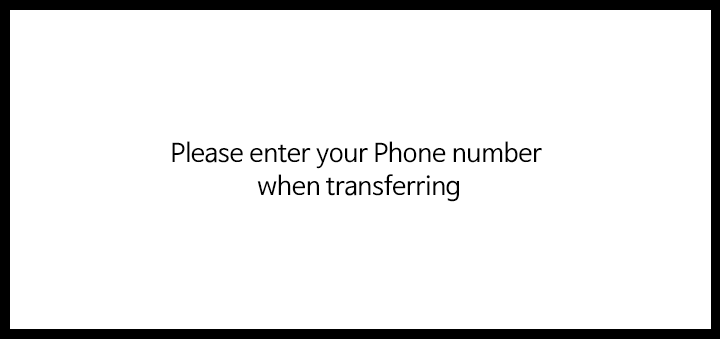
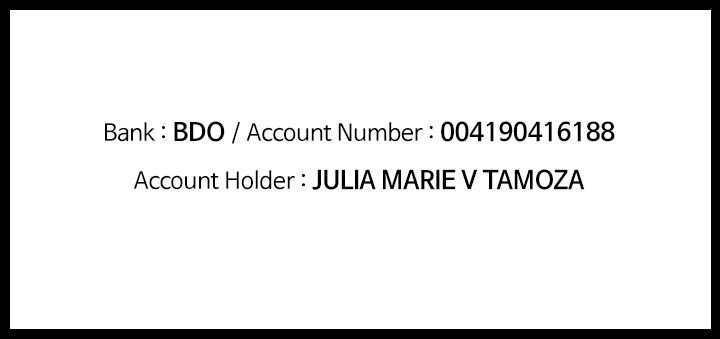
a

Changed region(s): [[0.1222, 0.354, 0.8556, 0.59]]

diff --git a/views/cmall/mobile/order.php b/views/cmall/mobile/order.php
@@ -152,8 +152,8 @@
                         </tr>
                         <tr>
                             <td>
-                            <h3 class="control-label">Account information</h3>
-                            <strong><?php echo nl2br($this->cbconfig->item('payment_bank_info')); ?> </strong>
+                            <!-- <h3 class="control-label">Account information</h3>
+                            <strong><?php echo nl2br($this->cbconfig->item('payment_bank_info')); ?> </strong> -->
 
                              <!-- 결제 정보 이미지 -->
                                 <figure class="account_information">

diff --git a/views/cmall/mobile/order_result.php b/views/cmall/mobile/order_result.php
@@ -133,8 +133,8 @@
 
                         <tr>
                             <td class="well">
-                                <h3>Deposit account</h3>
-                                <strong><?php echo nl2br(html_escape($this->cbconfig->item('payment_bank_info'))); ?></strong>
+                                <!-- <h3>Deposit account</h3>
+                                <strong><?php echo nl2br(html_escape($this->cbconfig->item('payment_bank_info'))); ?></strong> -->
 
                                 <!-- 결제 정보 이미지 -->
                                     <figure class="account_information">
